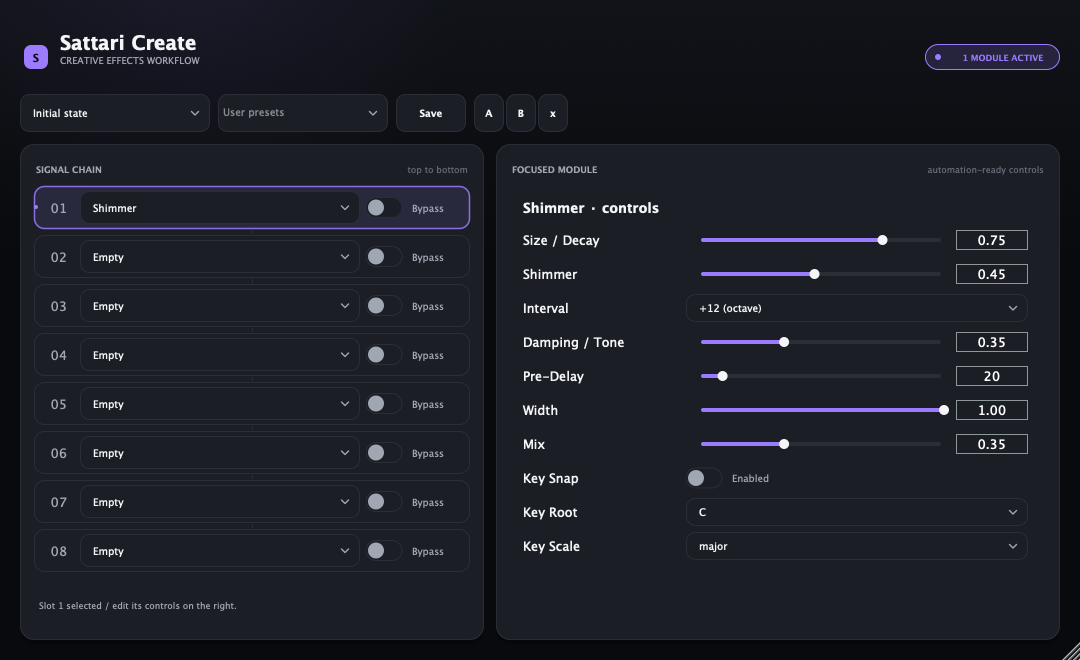
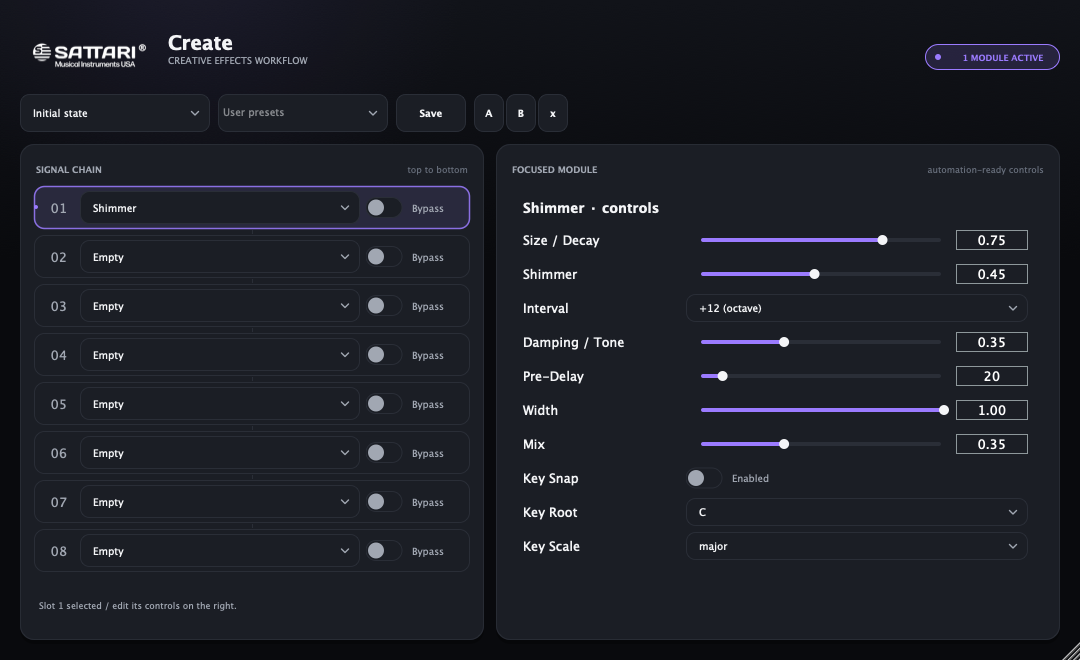
Adopt the official Sattari lockup across the suite

Changed region(s): [[0.0, 0.0303, 0.2139, 0.1212], [0.2444, 0.0909, 0.275, 0.1212]]

diff --git a/apps/sattari-web/index.html b/apps/sattari-web/index.html
@@ -59,9 +59,9 @@ img{display:block;max-width:100%}
   border-bottom:1px solid var(--line-2)}
 .nav-in{max-width:1120px;margin:0 auto;padding:0 24px;height:48px;
   display:flex;align-items:center;justify-content:space-between}
-.brand{font-size:19px;font-weight:600;letter-spacing:-.02em;color:var(--ink)}
+.brand{display:flex;align-items:center;color:var(--ink)}
 .brand:hover{text-decoration:none}
-.brand span{color:var(--mint)}
+.brand img{width:118px;height:auto;filter:invert(1)}
 .nav-links{display:flex;gap:28px;align-items:center}
 .nav-links a{font-size:12px;color:var(--ink);opacity:.85}
 .nav-links a:hover{opacity:1;text-decoration:none}
@@ -320,7 +320,9 @@ footer{border-top:1px solid var(--line-2);padding:44px 0;background:var(--bg-2)}
 
 <nav class="nav">
   <div class="nav-in">
-    <a class="brand" href="#top">Sattari<span>.</span></a>
+    <a class="brand" href="#top" aria-label="Sattari Audio home">
+      <img src="assets/sattari-logo-white.png" alt="Sattari Musical Instruments USA" />
+    </a>
     <div class="nav-links">
       <a href="#racks">Racks</a>
       <a href="#studio">Product UI</a>

diff --git a/plugins/voxsynth/src/PluginEditor.cpp b/plugins/voxsynth/src/PluginEditor.cpp
@@ -7,9 +7,7 @@ SattariVoxSynthAudioProcessorEditor::SattariVoxSynthAudioProcessorEditor (Sattar
 {
     setLookAndFeel (&lookAndFeel);
 
-    title.setText ("VoxSynth", juce::dontSendNotification);
-    title.setFont (juce::Font (juce::FontOptions (22.0f, juce::Font::bold)));
-    title.setColour (juce::Label::textColourId, juce::Colour (br::kTextPrimary));
+    sattari::ui::SattariLookAndFeel::styleTitle (title, "Sattari VoxSynth");
     addAndMakeVisible (title);
     subtitle.setText (juce::String::fromUTF8 ("voice \xe2\x86\x92 instrument"), juce::dontSendNotification);
     subtitle.setColour (juce::Label::textColourId, juce::Colour (br::kTextMuted));
@@ -57,7 +55,7 @@ SattariVoxSynthAudioProcessorEditor::SattariVoxSynthAudioProcessorEditor (Sattar
     knob (vocoder, vocoderC, "Vocoder", "vocoder", vocoderA);
     knob (level, levelC, "Level", "level", levelA);
 
-    setSize (620, 300);
+    setSize (620, 316);
     startTimerHz (30);
 }
 
@@ -107,14 +105,15 @@ void SattariVoxSynthAudioProcessorEditor::paint (juce::Graphics& g)
 void SattariVoxSynthAudioProcessorEditor::resized()
 {
     auto r = getLocalBounds().reduced (16);
-    auto top = r.removeFromTop (30);
-    title.setBounds (top.removeFromLeft (110));
-    subtitle.setBounds (top.removeFromLeft (110).withTrimmedTop (7));
-    modeBox.setBounds (top.removeFromRight (76));
-    top.removeFromRight (6);
-    sessionHud.setBounds (top.removeFromRight (150).withSizeKeepingCentre (150, 22));
-    top.removeFromLeft (8);
-    presetBox.setBounds (top.removeFromLeft (juce::jmin (140, juce::jmax (0, top.getWidth()))).withSizeKeepingCentre (juce::jmin (140, juce::jmax (0, top.getWidth())), 24));
+    auto brandRow = r.removeFromTop (34);
+    title.setBounds (brandRow.removeFromLeft (210));
+    subtitle.setBounds (brandRow.removeFromLeft (140).withTrimmedTop (9));
+    sessionHud.setBounds (brandRow.removeFromRight (150).withSizeKeepingCentre (150, 22));
+
+    auto commandRow = r.removeFromTop (28);
+    presetBox.setBounds (commandRow.removeFromLeft (160).withSizeKeepingCentre (160, 24));
+    commandRow.removeFromLeft (8);
+    modeBox.setBounds (commandRow.removeFromLeft (90).withSizeKeepingCentre (90, 24));
 
     readout.setBounds (r.removeFromTop (30));
     r.removeFromTop (8);

diff --git a/core/include/sattari_audio_core/SattariLookAndFeel.h b/core/include/sattari_audio_core/SattariLookAndFeel.h
@@ -16,6 +16,7 @@
 
 #include <juce_gui_basics/juce_gui_basics.h>
 #include "SattariBranding.h"
+#include "SattariLogo.h"
 
 namespace sattari::ui
 {
@@ -205,6 +206,31 @@ public:
         return label.getFont();
     }
 
+    void drawLabel (juce::Graphics& g, juce::Label& label) override
+    {
+        if (! (bool) label.getProperties().getWithDefault (brandTitleProperty, false)
+            || label.isBeingEdited())
+        {
+            juce::LookAndFeel_V4::drawLabel (g, label);
+            return;
+        }
+
+        auto area = label.getLocalBounds().reduced (1, 1);
+        const int logoHeight = juce::jmin (26, juce::jmax (12, area.getHeight() - 2));
+        const int logoWidth = juce::roundToInt ((float) logoHeight * 3.693f);
+        auto logoArea = area.removeFromLeft (juce::jmin (logoWidth, area.getWidth()));
+        sattari::branding::drawLogo (g, logoArea.toFloat());
+
+        if (area.getWidth() <= 4)
+            return;
+
+        area.removeFromLeft (juce::jmin (9, area.getWidth()));
+        g.setColour (label.findColour (juce::Label::textColourId));
+        g.setFont (label.getFont());
+        g.drawFittedText (label.getText(), area,
+                          juce::Justification::centredLeft, 1, 0.78f);
+    }
+
     // --- Convenience builders so editors stay short --------------------------
     static void styleRotary (juce::Slider& s, const juce::String& suffix = {})
     {
@@ -215,7 +241,10 @@ public:
 
     static void styleTitle (juce::Label& l, const juce::String& text)
     {
-        l.setText (text, juce::dontSendNotification);
+        l.setTitle (text);
+        l.setDescription (text + " audio plugin");
+        l.getProperties().set (brandTitleProperty, true);
+        l.setText (sattari::branding::compactProductName (text), juce::dontSendNotification);
         l.setFont (juce::FontOptions (sattari::brand::kTitleSize));   // regular weight = modern
         l.setColour (juce::Label::textColourId, juce::Colour (sattari::brand::kTextPrimary));
     }
@@ -228,6 +257,7 @@ public:
     }
 
 private:
+    inline static const juce::Identifier brandTitleProperty { "sattariBrandTitle" };
     juce::Colour accent;
 
     JUCE_DECLARE_NON_COPYABLE_WITH_LEAK_DETECTOR (SattariLookAndFeel)

diff --git a/core/include/sattari_audio_core/SattariStudio.h b/core/include/sattari_audio_core/SattariStudio.h
@@ -17,6 +17,7 @@
 
 #include <juce_gui_basics/juce_gui_basics.h>
 #include <sattari_audio_core/SattariBranding.h>
+#include <sattari_audio_core/SattariLogo.h>
 
 #include <cmath>
 
@@ -311,14 +312,9 @@ public:
     void paint (juce::Graphics& g) override
     {
         auto area = getLocalBounds();
-        auto mark = area.removeFromLeft (32).withSizeKeepingCentre (24, 24).toFloat();
-        g.setColour (accent_);
-        g.fillRoundedRectangle (mark, 7.0f);
-        g.setColour (colour::canvas);
-        g.setFont (juce::FontOptions (13.0f, juce::Font::bold));
-        g.drawText ("S", mark.toNearestInt(), juce::Justification::centred, false);
-
-        area.removeFromLeft (8);
+        auto logoArea = area.removeFromLeft (136).withSizeKeepingCentre (126, 42);
+        sattari::branding::drawLogo (g, logoArea.toFloat());
+        area.removeFromLeft (12);
         const int statusWidth = status_.isNotEmpty()
             ? juce::jlimit (96, 184, 30 + status_.length() * 7)
             : 0;
@@ -330,7 +326,8 @@ public:
             juce::jmin (textWidth, area.getWidth()));
         g.setColour (colour::text);
         g.setFont (juce::FontOptions (23.0f, juce::Font::bold));
-        g.drawText (product_, textArea.removeFromTop (34),
+        g.drawText (sattari::branding::compactProductName (product_),
+                    textArea.removeFromTop (34),
                     juce::Justification::bottomLeft, false);
         g.setColour (colour::secondary);
         g.setFont (juce::FontOptions (11.0f));

diff --git a/plugins/morph/src/PluginEditor.cpp b/plugins/morph/src/PluginEditor.cpp
@@ -7,13 +7,8 @@ SattariMorphAudioProcessorEditor::SattariMorphAudioProcessorEditor (SattariMorph
 {
     setLookAndFeel (&lookAndFeel);
 
-    title.setText ("Morph", juce::dontSendNotification);
-    title.setFont (juce::Font (juce::FontOptions (22.0f, juce::Font::bold)));
-    title.setColour (juce::Label::textColourId, juce::Colour (br::kTextPrimary));
+    sattari::ui::SattariLookAndFeel::styleTitle (title, "Sattari Morph");
     addAndMakeVisible (title);
-    subtitle.setText (juce::String::fromUTF8 ("pitch \xc2\xb7 formant \xc2\xb7 character"), juce::dontSendNotification);
-    subtitle.setColour (juce::Label::textColourId, juce::Colour (br::kTextMuted));
-    addAndMakeVisible (subtitle);
     addAndMakeVisible (sessionHud);
 
     // Factory presets — drive the processor's program interface (single source of
@@ -103,9 +98,8 @@ void SattariMorphAudioProcessorEditor::paint (juce::Graphics& g)
 void SattariMorphAudioProcessorEditor::resized()
 {
     auto r = getLocalBounds().reduced (16);
-    auto top = r.removeFromTop (30);
-    title.setBounds (top.removeFromLeft (90));
-    subtitle.setBounds (top.removeFromLeft (150).withTrimmedTop (7));
+    auto top = r.removeFromTop (34);
+    title.setBounds (top.removeFromLeft (250));
     sessionHud.setBounds (top.removeFromRight (150).withSizeKeepingCentre (150, 22));
     r.removeFromTop (10);
 

diff --git a/core/src/SattariLogo.cpp b/core/src/SattariLogo.cpp
@@ -1,0 +1,30 @@
+#include <sattari_audio_core/SattariLogo.h>
+#include <SattariBrandAssets.h>
+
+namespace sattari::branding
+{
+
+const juce::Image& logo()
+{
+    static const auto image = juce::ImageFileFormat::loadFrom (
+        SattariBrandAssetsData::sattarilogowhite_png,
+        SattariBrandAssetsData::sattarilogowhite_pngSize);
+    return image;
+}
+
+void drawLogo (juce::Graphics& g, juce::Rectangle<float> bounds)
+{
+    const auto& image = logo();
+    if (! image.isValid() || bounds.isEmpty())
+        return;
+
+    g.drawImageWithin (image,
+                       juce::roundToInt (bounds.getX()),
+                       juce::roundToInt (bounds.getY()),
+                       juce::roundToInt (bounds.getWidth()),
+                       juce::roundToInt (bounds.getHeight()),
+                       juce::RectanglePlacement::centred,
+                       false);
+}
+
+} // namespace sattari::branding

diff --git a/core/include/sattari_audio_core/SattariLogo.h b/core/include/sattari_audio_core/SattariLogo.h
@@ -1,0 +1,20 @@
+#pragma once
+
+#include <juce_graphics/juce_graphics.h>
+
+namespace sattari::branding
+{
+
+const juce::Image& logo();
+
+inline juce::String compactProductName (juce::String name)
+{
+    const juce::String prefix { "Sattari " };
+    if (name.startsWithIgnoreCase (prefix))
+        name = name.substring (prefix.length());
+    return name.trim();
+}
+
+void drawLogo (juce::Graphics& g, juce::Rectangle<float> bounds);
+
+} // namespace sattari::branding

diff --git a/plugins/morph/src/PluginEditor.h b/plugins/morph/src/PluginEditor.h
@@ -26,7 +26,7 @@ private:
     sattari::ui::SattariLookAndFeel lookAndFeel { sattari::brand::productAccent ("morph") };
     sattari::ui::SessionHud sessionHud;
 
-    juce::Label title, subtitle, robotCap;
+    juce::Label title, robotCap;
     juce::ComboBox presetBox, modeBox, robotNoteBox;
     std::unique_ptr<CA> modeAtt, robotAtt;
 
